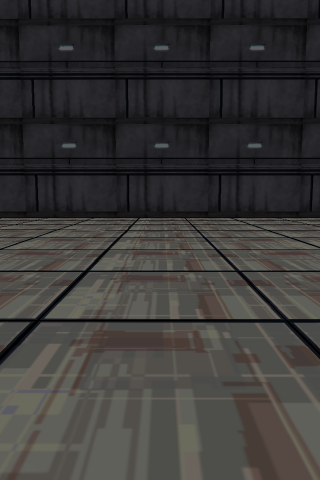
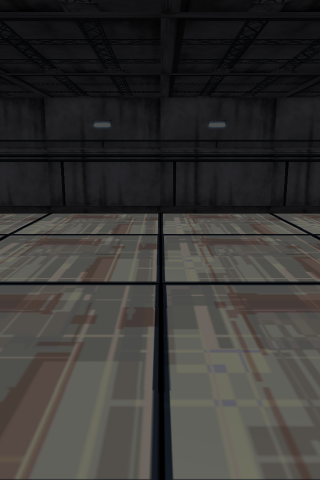
システム画面の背景を変更した。

diff --git a/public/javascripts/gameBase.js b/public/javascripts/gameBase.js
@@ -10,10 +10,8 @@ function gameBase(spec,my){
     core.PICT_HIT_EFFECT = core.PICT_PREFIX+'hitEffect.png';
     core.PICT_DAMAGE = core.PICT_PREFIX+'damage.png';
     core.PICT_HIT_TEXT = core.PICT_PREFIX+'hitText.png';
-    core.PICT_SYSTEM_BACKGROUND = core.PICT_PREFIX+'systemBackGround.PNG';
     core.PICT_BULUE_BUTTON = core.PICT_PREFIX+'buttonBlue.png';
     core.PICT_BG_GROUND = core.PICT_PREFIX+'bgGround.png';
-    core.PICT_BG_SKY = core.PICT_PREFIX+'bgSky.png';
     core.PICT_MESSAGE_WINDOW = core.PICT_PREFIX+'messageWindow.png';
     core.WAIT_TIME_ACTIVE_RESET = 30;
     core.ICON_WIDTH = 124;
@@ -55,10 +53,8 @@ function gameBase(spec,my){
         core.preload(core.PICT_HIT_EFFECT);
         core.preload(core.PICT_DAMAGE);
         core.preload(core.PICT_HIT_TEXT);
-        core.preload(core.PICT_SYSTEM_BACKGROUND);
         core.preload(core.PICT_BULUE_BUTTON);
         core.preload(core.PICT_BG_GROUND);
-        core.preload(core.PICT_BG_SKY);
         core.preload(core.PICT_MESSAGE_WINDOW);
     }
     return core;

diff --git a/public/javascripts/battleSceneBase.js b/public/javascripts/battleSceneBase.js
@@ -36,18 +36,6 @@ function battleSceneBase(spec,my){
 
     initSprite();
     function initSprite() {
-        //背景(空)
-        /*
-        that.sky = scrollBackGround({
-            pict : core.assets[core.PICT_BG_SKY],
-            speed : 1,
-            height : 240
-        });
-        that.sky.x = 0;
-        that.sky.y = -20;
-        that.addChild(that.sky);
-        */
-
         //背景(地面)
         that.ground = scrollBackGround({
             pict : core.assets[core.PICT_BG_GROUND],

diff --git a/public/javascripts/setArmdozerScene.js b/public/javascripts/setArmdozerScene.js
@@ -19,7 +19,7 @@ function setArmdozerScene(spec,my){
     function initSprite(){
         //背景
         that.background = new Sprite(core.SYSTEM_BG_WIDTH,core.SYSTEM_BG_HEIGHT);
-        that.background.image = core.assets[core.PICT_SYSTEM_BACKGROUND];
+        that.background.image = core.assets[core.PICT_BG_GROUND];
         that.addChild(that.background);
 
         //キャラクター選択ボタン

diff --git a/public/javascripts/armdozerInfoScene.js b/public/javascripts/armdozerInfoScene.js
@@ -23,7 +23,7 @@ function armdozerInfoScene(spec,my){
     function initSprite(){
         //背景
         that.background = new Sprite(core.SYSTEM_BG_WIDTH,core.SYSTEM_BG_HEIGHT);
-        that.background.image = core.assets[core.PICT_SYSTEM_BACKGROUND];
+        that.background.image = core.assets[core.PICT_BG_GROUND];
         that.addChild(that.background);
 
         //アームドーザ画像

diff --git a/public/javascripts/topScene.js b/public/javascripts/topScene.js
@@ -16,7 +16,7 @@ function topScene(){
     function initSprite(){
         //背景
         that.background = new Sprite(core.SYSTEM_BG_WIDTH,core.SYSTEM_BG_HEIGHT);
-        that.background.image = core.assets[core.PICT_SYSTEM_BACKGROUND];
+        that.background.image = core.assets[core.PICT_BG_GROUND];
         that.addChild(that.background);
 
         //対戦ルーム入室ボタン

diff --git a/public/javascripts/roomSelectScene.js b/public/javascripts/roomSelectScene.js
@@ -23,7 +23,7 @@ function roomSelectScene(spec,my){
     function initSprite(){
         //背景
         that.background = new Sprite(core.SYSTEM_BG_WIDTH,core.SYSTEM_BG_HEIGHT);
-        that.background.image = core.assets[core.PICT_SYSTEM_BACKGROUND];
+        that.background.image = core.assets[core.PICT_BG_GROUND];
         that.addChild(that.background);
 
         //入室ボタン

diff --git a/publicForDebug/javascripts/scrollBackGroundDebug.js b/publicForDebug/javascripts/scrollBackGroundDebug.js
@@ -8,13 +8,6 @@ window.onload = function() {
 }
 
 function scrollBackGroundDebug(){
-    var sky = scrollBackGround({
-        pict : Game.assets[Game.PICT_BG_SKY],
-        speed : 1,
-        height : 220
-    });
-    Game.currentScene.addChild(sky);
-
     var ground = scrollBackGround({
         pict : Game.assets[Game.PICT_BG_GROUND],
         speed : 2,
